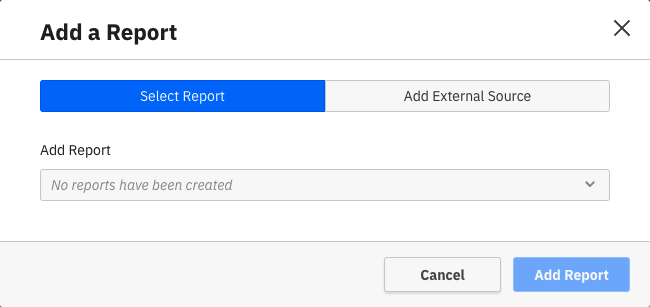
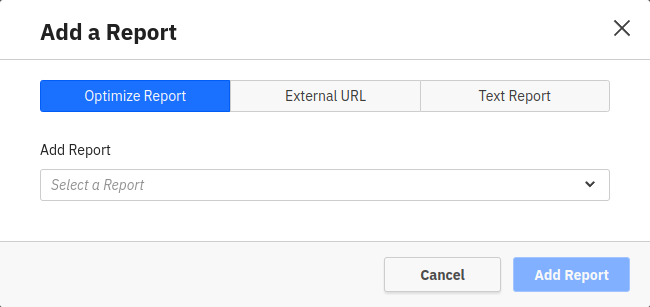
docs(text reports): add text reports to dashboard edit
related to OPT-6696

diff --git a/optimize/components/userguide/edit-mode.md b/optimize/components/userguide/edit-mode.md
@@ -15,7 +15,11 @@ The edit mode allows you to configure the dashboard and adjust it to your needs,
 
 ![edit mode](./img/dashboard-dashboardEditActions.png)
 
-Once you have prepared all your reports, you can now start to assemble them into a dashboard. Above the dashboard grid, click **Add a report** to open a modal where you can select one of your defined reports and add it to the dashboard:
+Once you have prepared all your reports, you can now start to assemble them into a dashboard. Above the dashboard grid, click **Add a report** to open a modal where you can select one of your defined reports and add it to the dashboard. The **Add report** modal allows you to create dashboards that combine Optimize reports with data from other services as external URL reports and text reports.
+
+### Optimize reports
+
+In the **Add report** modal, use **Optimize Report** tab to add reports to the dashboard. Use the **Select a Report** field to select one of the previously created reports or use **+ New Report from a template** option to create a new report.
 
 ![add a report modal](./img/dashboard-addAReportModal.png)
 
@@ -23,7 +27,19 @@ Once you have prepared all your reports, you can now start to assemble them into
 If the dashboard is inside a collection, only reports that are in the same collection can be added. If the dashboard is not in a collection, it can only contain reports that are also not in a collection.
 :::
 
-In the **Add report** modal, click **Add External Source** to enter the URL of an external data source which should be added to the dashboard. This allows you to create dashboards that combine Optimize reports with data from other services. Such external reports are added as iframes to the dashboard.
+### External reports
+
+In the **Add report** modal, click **External URL** to enter the URL of an external data source which should be added to the dashboard. Such external reports are added as iframes to the dashboard.
+
+![text report editor](./img/dashboard-addAReportModal-externalReport.png)
+
+### Text reports
+
+In the **Add report** modal, click **Text Report** to open the text editor. This allows you to create a document which can contain formatted text, links and images.
+
+![text report editor](./img/dashboard-addAReportModal-textReport.png)
+
+### Placing report on the dashboard
 
 To move the report to your desired location, drag it in any direction. As soon as you release the dragged report, it snaps to the closest grid position. Dragging the handle on the lower right corner of each report will resize it. Delete the report from your dashboard by clicking the **x** button on the top right corner of each report.
 
